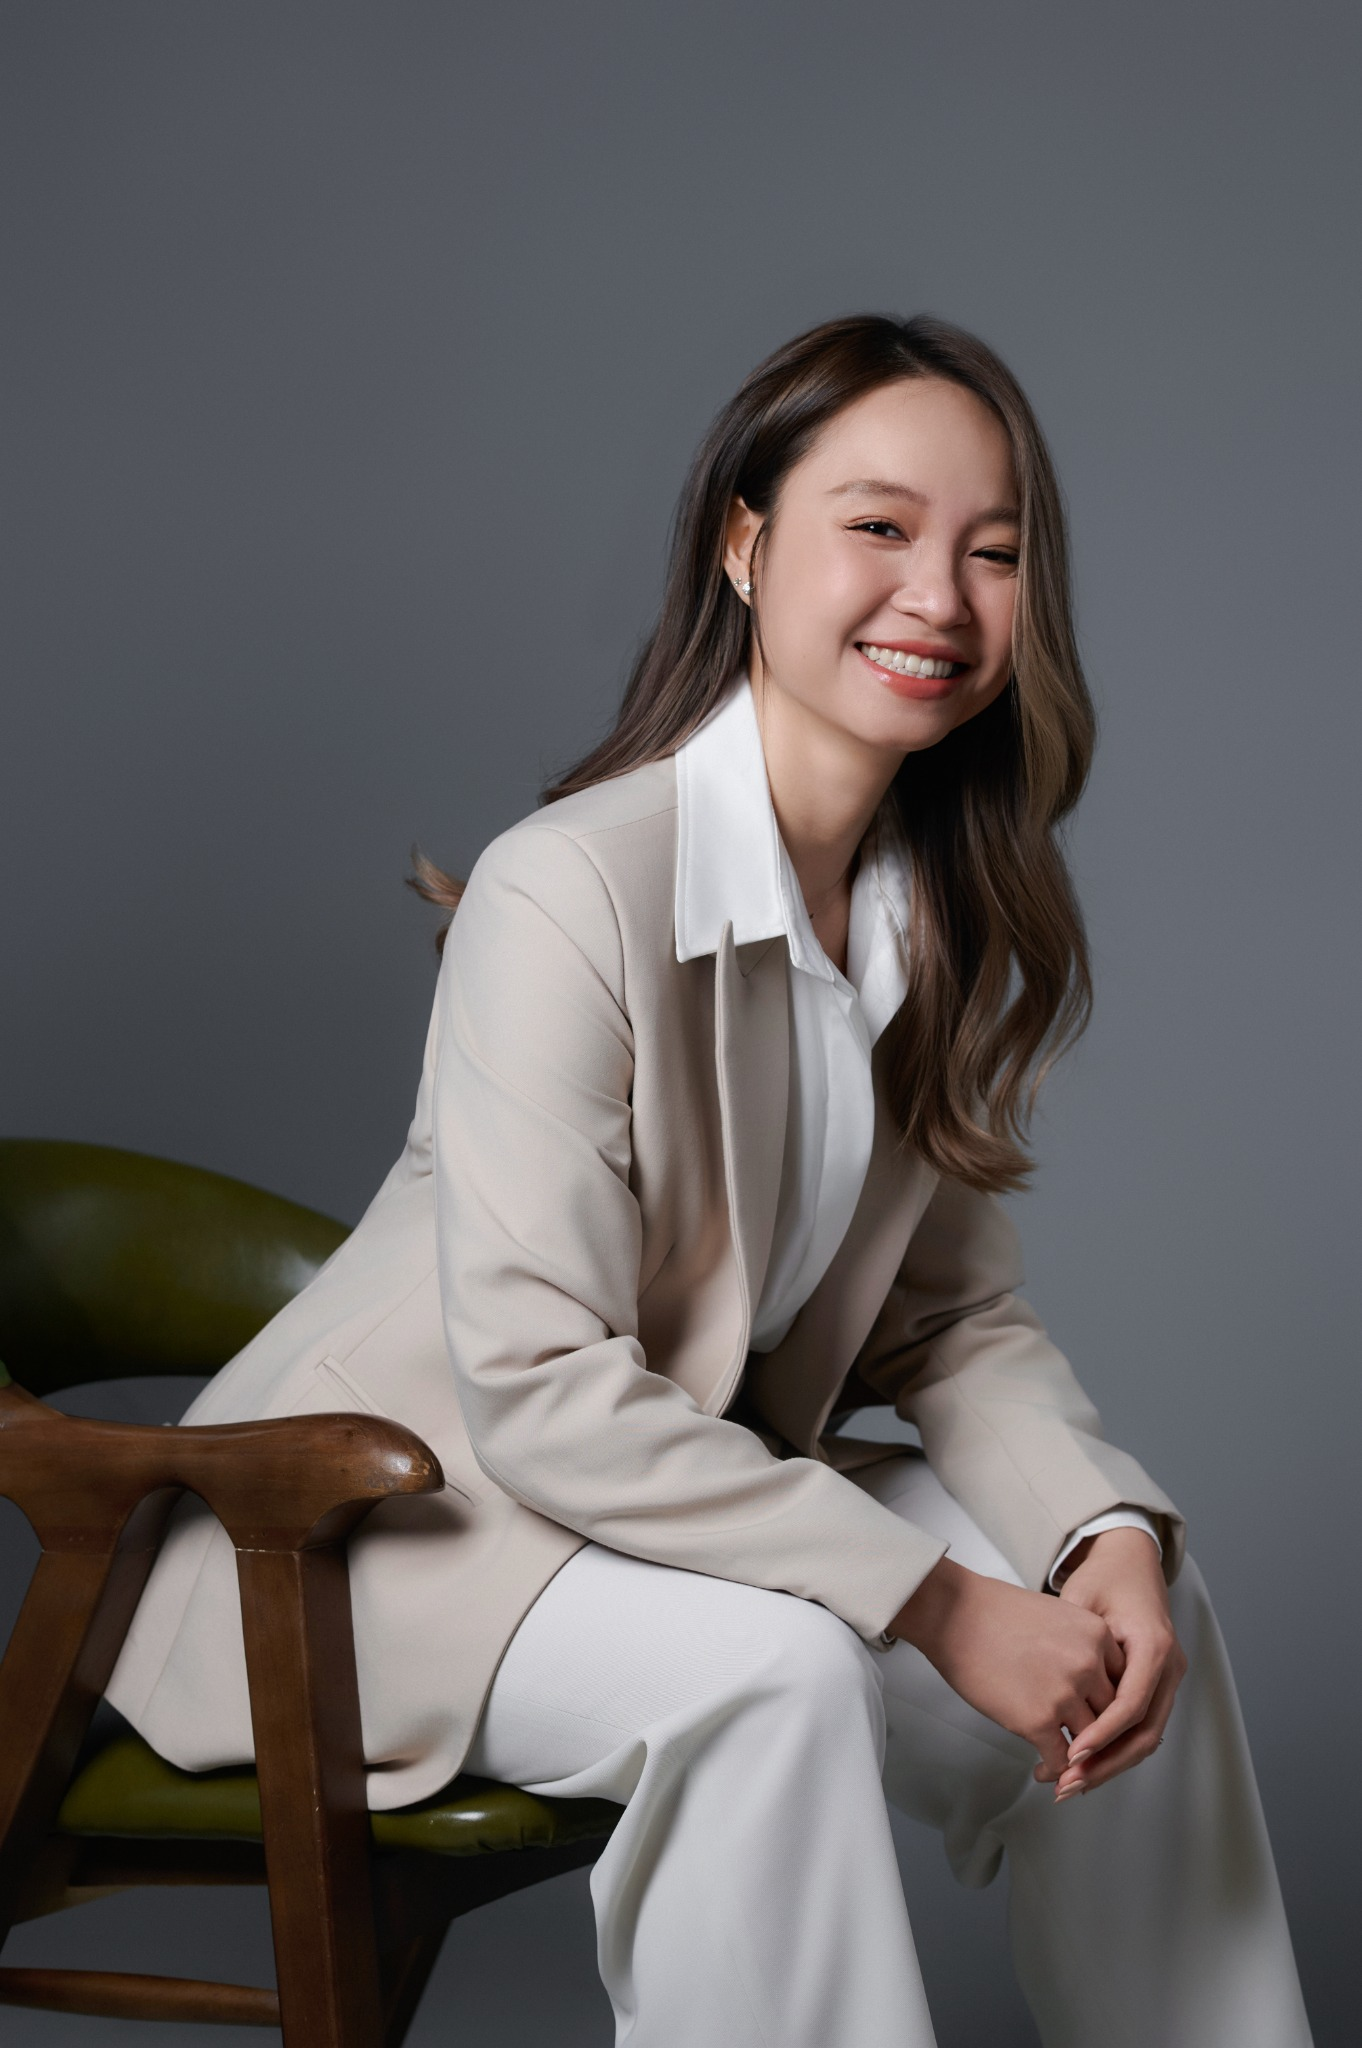
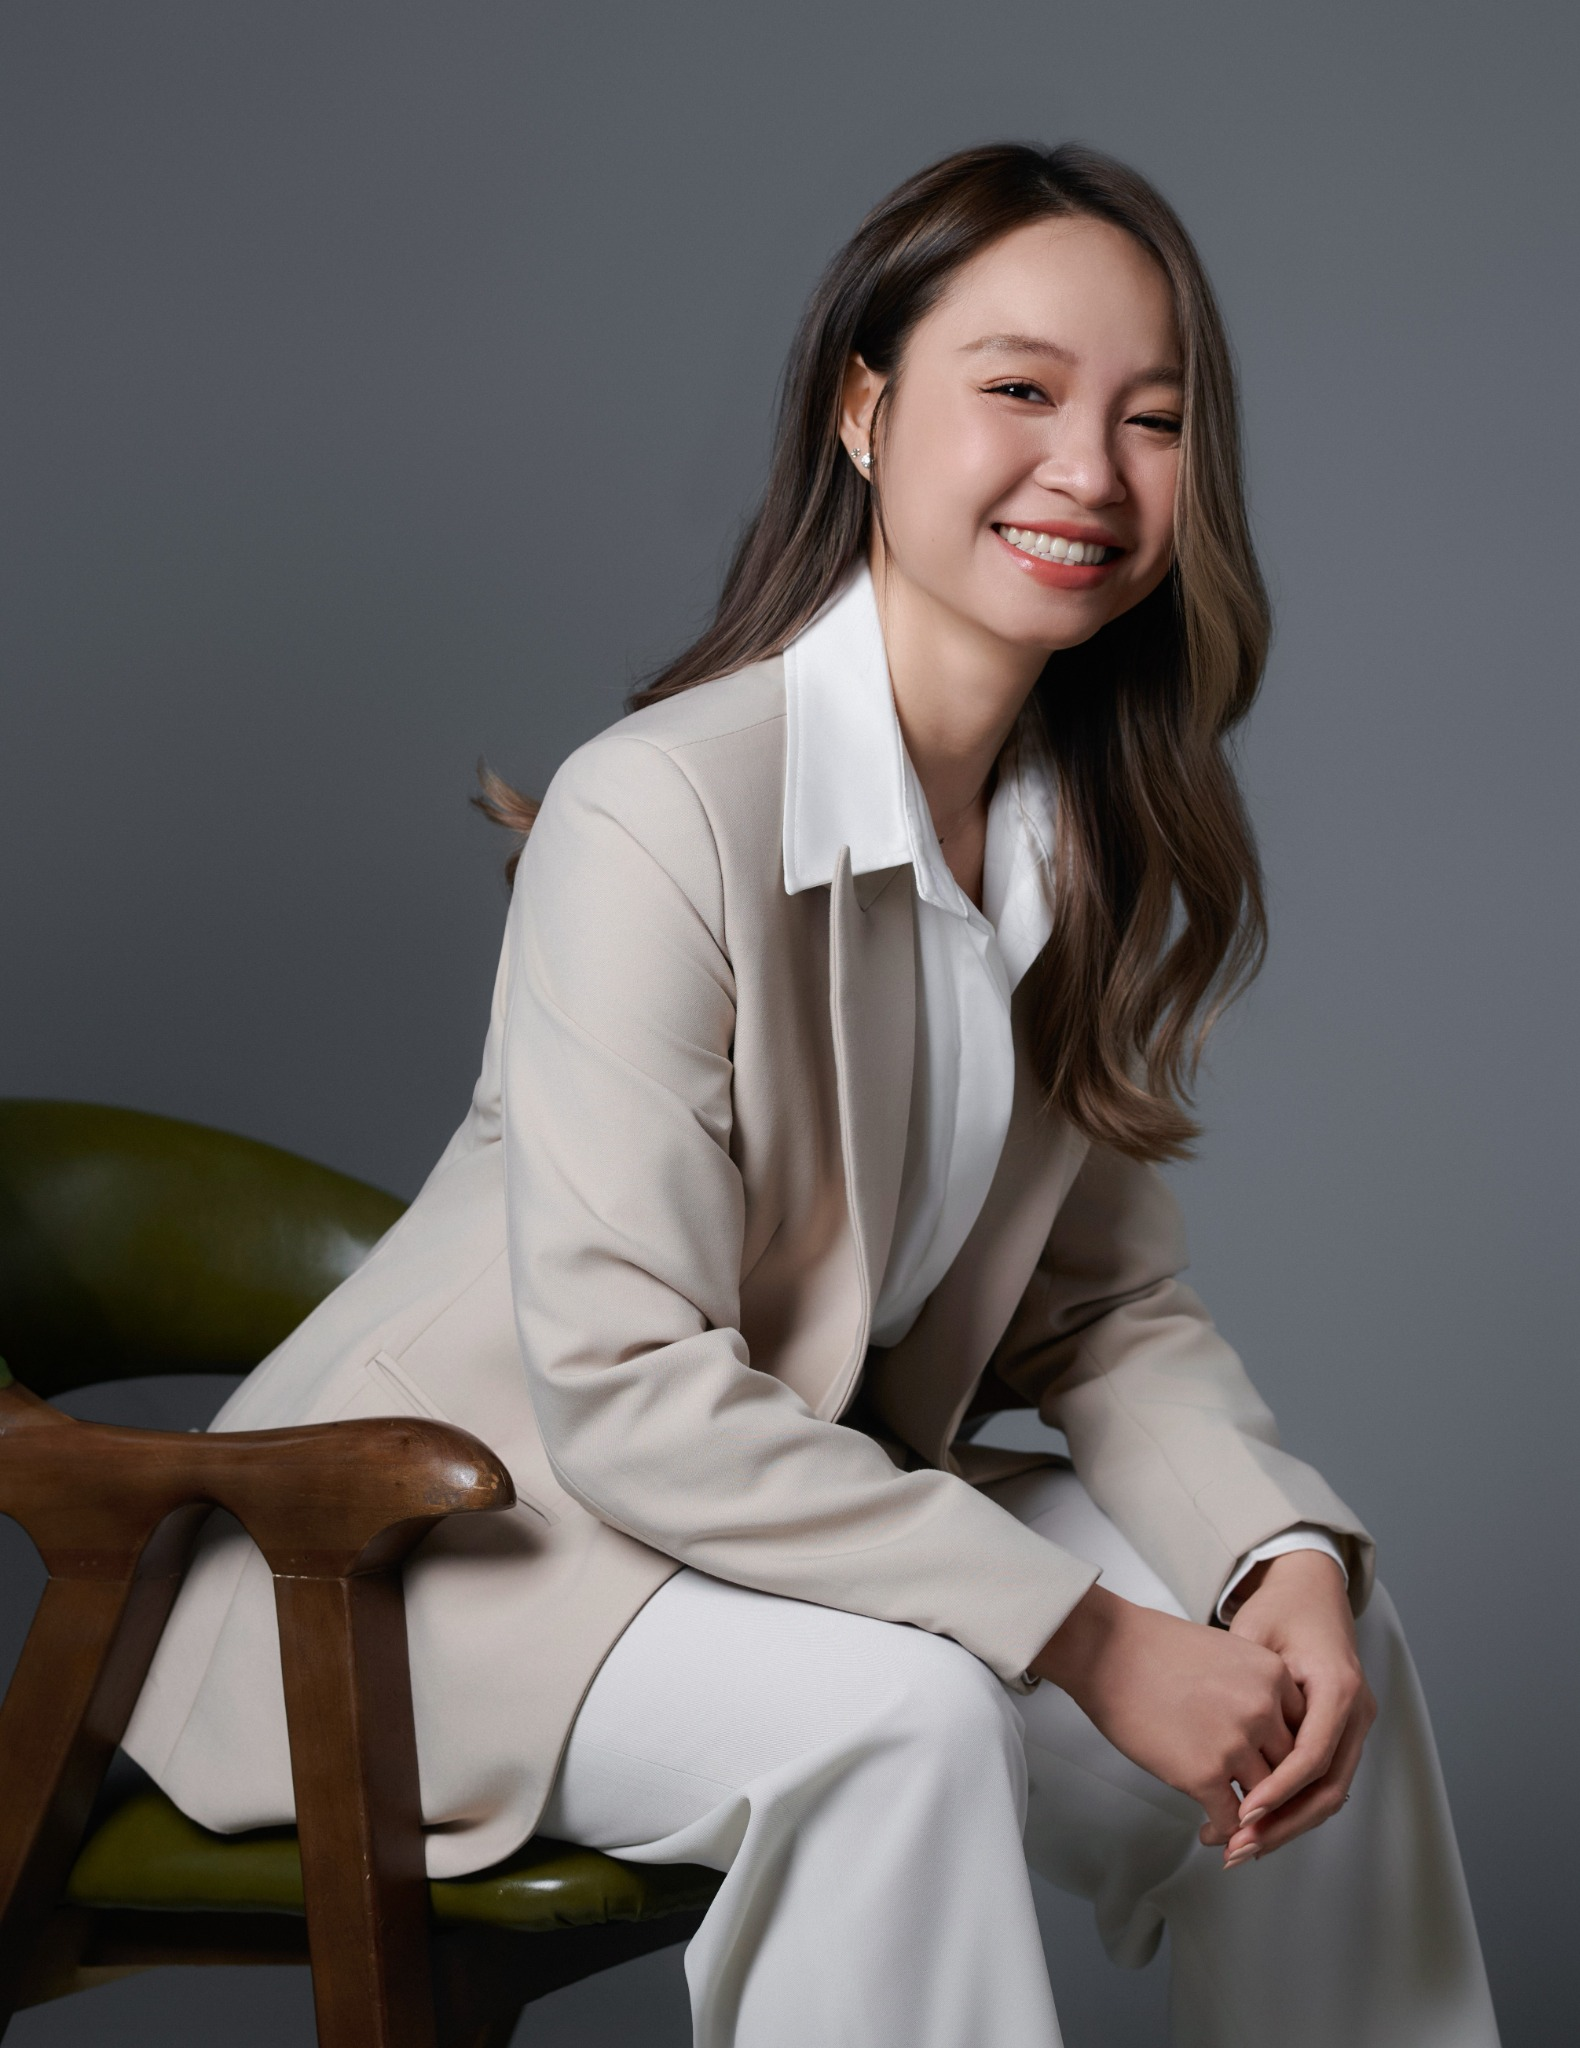
Replace homepage portrait with Evelyn's cropped photo

diff --git a/fr/index.html b/fr/index.html
@@ -3,7 +3,7 @@
 <link rel="stylesheet" href="../assets/style.css?v=80a076e0e6ce">
 <link rel="canonical" href="https://evelyn-pg-nguyen.github.io/fr/index.html"><link rel="alternate" hreflang="en" href="https://evelyn-pg-nguyen.github.io/index.html"><link rel="alternate" hreflang="fr" href="https://evelyn-pg-nguyen.github.io/fr/index.html"></head><body><a class="skip" href="#main">Aller au contenu</a>
 <nav class="nav" aria-label="Navigation principale"><div class="wrap"><a class="brand" href="index.html">Evelyn Phuong Giang Nguyen</a><ul><li><a href="dashboards.html">Tableaux de bord</a></li><li><a href="modeling.html">Modélisation financière</a></li><li><a href="ai-automation.html">IA &amp; automatisation</a></li><li><a href="degrees.html">Diplômes &amp; certifications</a></li></ul><div class="language" aria-label="Langue"><a href="../index.html" lang="en" hreflang="en" aria-label="English">EN</a><a href="index.html" lang="fr" hreflang="fr" aria-label="Français" aria-current="true">FR</a></div></div></nav>
-<main id="main"><header class="hero"><div class="wrap hero-with-portrait"><div class="hero-portrait"><img src="../assets/evelyn-portrait.jpg" alt="Portrait d’Evelyn Phuong Giang Nguyen" width="1280" height="1924" fetchpriority="high" decoding="async"></div><div class="hero-content"><p class="label">FP&amp;A · Paris, France</p><h1>Evelyn Phuong Giang Nguyen</h1><p class="intro">Avant de devenir analyste FP&amp;A, j’ai travaillé comme comptable, consultante en management, ainsi que dans la planification et les achats de matières premières. C’est très important, car ce parcours permet de mieux comprendre qui je suis et les compétences que je peux apporter à mon poste. La diversité de mes expériences m’aide à sortir du seul cadre de la finance, à me mettre à la place des autres équipes et à parler leur langage. Car, au-delà des compétences techniques, la communication est l’un des éléments les plus essentiels pour mener à bien un travail.</p><div class="cv-download"><p id="cv-label">Téléchargez mon CV ci-dessous</p><div class="cv-links" role="group" aria-labelledby="cv-label"><a href="https://drive.google.com/file/d/1lHbz9J_Rnrc0ts-TfSkLASZrzQ_f5wjZ/view?usp=drive_link" target="_blank" rel="noopener" lang="en" aria-label="CV — English">English</a><a href="https://drive.google.com/file/d/17-TGXkGlSC558fM3aT5N-kYaD8ITXLXd/view?usp=drive_link" target="_blank" rel="noopener" lang="fr" aria-label="CV — Français">Français</a></div></div></div></div></header>
+<main id="main"><header class="hero"><div class="wrap hero-with-portrait"><div class="hero-portrait"><img src="../assets/evelyn-portrait.jpg?v=ab5987323be4" alt="Portrait d’Evelyn Phuong Giang Nguyen" width="1580" height="2048" fetchpriority="high" decoding="async"></div><div class="hero-content"><p class="label">FP&amp;A · Paris, France</p><h1>Evelyn Phuong Giang Nguyen</h1><p class="intro">Avant de devenir analyste FP&amp;A, j’ai travaillé comme comptable, consultante en management, ainsi que dans la planification et les achats de matières premières. C’est très important, car ce parcours permet de mieux comprendre qui je suis et les compétences que je peux apporter à mon poste. La diversité de mes expériences m’aide à sortir du seul cadre de la finance, à me mettre à la place des autres équipes et à parler leur langage. Car, au-delà des compétences techniques, la communication est l’un des éléments les plus essentiels pour mener à bien un travail.</p><div class="cv-download"><p id="cv-label">Téléchargez mon CV ci-dessous</p><div class="cv-links" role="group" aria-labelledby="cv-label"><a href="https://drive.google.com/file/d/1lHbz9J_Rnrc0ts-TfSkLASZrzQ_f5wjZ/view?usp=drive_link" target="_blank" rel="noopener" lang="en" aria-label="CV — English">English</a><a href="https://drive.google.com/file/d/17-TGXkGlSC558fM3aT5N-kYaD8ITXLXd/view?usp=drive_link" target="_blank" rel="noopener" lang="fr" aria-label="CV — Français">Français</a></div></div></div></div></header>
 <section class="work" aria-labelledby="work-title"><div class="wrap"><h2 id="work-title">Sélection de projets</h2><ol class="index"><li><a href="dashboards.html"><span class="num">01</span><span><span class="ttl">Tableaux de bord</span><span class="sub">Rapports FP&amp;A et financiers réalisés avec Power BI et d’autres outils de BI.</span></span><span class="go" aria-hidden="true">↗</span></a></li><li><a href="modeling.html"><span class="num">02</span><span><span class="ttl">Modélisation financière</span><span class="sub">Budgets, prévisions de trésorerie, modèles de scénarios et outils d’aide à la décision.</span></span><span class="go" aria-hidden="true">↗</span></a></li><li><a href="ai-automation.html"><span class="num">03</span><span><span class="ttl">IA &amp; automatisation</span><span class="sub">Python, IA et automatisation des processus en FP&amp;A et en comptabilité.</span></span><span class="go" aria-hidden="true">↗</span></a></li><li><a href="degrees.html"><span class="num">04</span><span><span class="ttl">Diplômes &amp; certifications</span><span class="sub">Une présentation de mes principaux diplômes et certifications professionnelles.</span></span><span class="go" aria-hidden="true">↗</span></a></li></ol></div></section>
 </main><section class="talk" id="contact"><div class="wrap"><div class="contact">
   <div><h2>Échangeons</h2><p>Une question sur mon travail ? Contactez-moi.</p></div>

diff --git a/index.html b/index.html
@@ -3,7 +3,7 @@
 <link rel="stylesheet" href="assets/style.css?v=80a076e0e6ce">
 <link rel="canonical" href="https://evelyn-pg-nguyen.github.io/index.html"><link rel="alternate" hreflang="en" href="https://evelyn-pg-nguyen.github.io/index.html"><link rel="alternate" hreflang="fr" href="https://evelyn-pg-nguyen.github.io/fr/index.html"></head><body><a class="skip" href="#main">Skip to content</a>
 <nav class="nav" aria-label="Main"><div class="wrap"><a class="brand" href="index.html">Evelyn Phuong Giang Nguyen</a><ul><li><a href="dashboards.html">Dashboards</a></li><li><a href="modeling.html">Financial Modeling</a></li><li><a href="ai-automation.html">AI &amp; Automation</a></li><li><a href="degrees.html">Degrees &amp; Certifications</a></li></ul><div class="language" aria-label="Language"><a href="index.html" lang="en" hreflang="en" aria-label="English" aria-current="true">EN</a><a href="fr/index.html" lang="fr" hreflang="fr" aria-label="Français">FR</a></div></div></nav>
-<main id="main"><header class="hero"><div class="wrap hero-with-portrait"><div class="hero-portrait"><img src="assets/evelyn-portrait.jpg" alt="Portrait of Evelyn Phuong Giang Nguyen" width="1280" height="1924" fetchpriority="high" decoding="async"></div><div class="hero-content"><p class="label">FP&amp;A · Paris, France</p><h1>Evelyn Phuong Giang Nguyen</h1><p class="intro">Before becoming an FP&amp;A analyst, I worked as an accountant, a management consultant, and in raw material planning and purchasing. That is very important because it adds a lot more context to who I am and what skill set I can bring to my role. My diverse experience helps me think outside the box of finance, step into the shoes of other departments, and speak their language. Because beyond the technical side, communication is one of the most crucial things to getting any job done.</p><div class="cv-download"><p id="cv-label">Download my CV below</p><div class="cv-links" role="group" aria-labelledby="cv-label"><a href="https://drive.google.com/file/d/1lHbz9J_Rnrc0ts-TfSkLASZrzQ_f5wjZ/view?usp=drive_link" target="_blank" rel="noopener" lang="en" aria-label="CV — English">English</a><a href="https://drive.google.com/file/d/17-TGXkGlSC558fM3aT5N-kYaD8ITXLXd/view?usp=drive_link" target="_blank" rel="noopener" lang="fr" aria-label="CV — Français">Français</a></div></div></div></div></header>
+<main id="main"><header class="hero"><div class="wrap hero-with-portrait"><div class="hero-portrait"><img src="assets/evelyn-portrait.jpg?v=ab5987323be4" alt="Portrait of Evelyn Phuong Giang Nguyen" width="1580" height="2048" fetchpriority="high" decoding="async"></div><div class="hero-content"><p class="label">FP&amp;A · Paris, France</p><h1>Evelyn Phuong Giang Nguyen</h1><p class="intro">Before becoming an FP&amp;A analyst, I worked as an accountant, a management consultant, and in raw material planning and purchasing. That is very important because it adds a lot more context to who I am and what skill set I can bring to my role. My diverse experience helps me think outside the box of finance, step into the shoes of other departments, and speak their language. Because beyond the technical side, communication is one of the most crucial things to getting any job done.</p><div class="cv-download"><p id="cv-label">Download my CV below</p><div class="cv-links" role="group" aria-labelledby="cv-label"><a href="https://drive.google.com/file/d/1lHbz9J_Rnrc0ts-TfSkLASZrzQ_f5wjZ/view?usp=drive_link" target="_blank" rel="noopener" lang="en" aria-label="CV — English">English</a><a href="https://drive.google.com/file/d/17-TGXkGlSC558fM3aT5N-kYaD8ITXLXd/view?usp=drive_link" target="_blank" rel="noopener" lang="fr" aria-label="CV — Français">Français</a></div></div></div></div></header>
 <section class="work" aria-labelledby="work-title"><div class="wrap"><h2 id="work-title">Selected Work</h2><ol class="index"><li><a href="dashboards.html"><span class="num">01</span><span><span class="ttl">Dashboards</span><span class="sub">FP&amp;A and finance reports built in Power BI and other BI tools.</span></span><span class="go" aria-hidden="true">↗</span></a></li><li><a href="modeling.html"><span class="num">02</span><span><span class="ttl">Financial Modeling</span><span class="sub">Budgets, cash-flow forecasts, scenario models and decision-support tools.</span></span><span class="go" aria-hidden="true">↗</span></a></li><li><a href="ai-automation.html"><span class="num">03</span><span><span class="ttl">AI &amp; Automation</span><span class="sub">Python, AI and workflow automation across FP&amp;A and accounting.</span></span><span class="go" aria-hidden="true">↗</span></a></li><li><a href="degrees.html"><span class="num">04</span><span><span class="ttl">Degrees &amp; Certifications</span><span class="sub">A showcase of my major degrees and professional certifications.</span></span><span class="go" aria-hidden="true">↗</span></a></li></ol></div></section>
 </main><section class="talk" id="contact"><div class="wrap"><div class="contact">
   <div><h2>Let's talk</h2><p>Questions about my work? Get in touch.</p></div>
